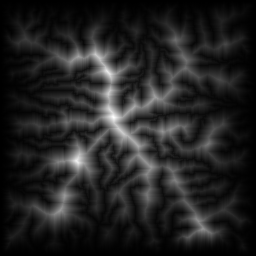
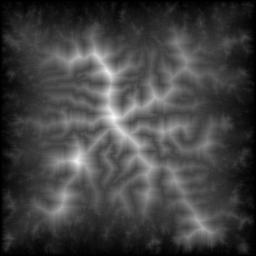
feat!: height_threshold parameter on with_valleys

diff --git a/terrain_gen/src/with_valleys.rs b/terrain_gen/src/with_valleys.rs
@@ -1,8 +1,11 @@
 use std::borrow::Borrow;
 
+use commons::scale::Scale;
+
 use crate::{AsHeightmap, AsRises, Heightmap, Rain};
 
 pub struct ValleyParameters {
+    height_threshold: f32,
     rain_threshold: usize,
     rise: f32,
 }
@@ -30,7 +33,18 @@ impl WithValleys for Heightmap {
             }
         });
 
-        noise.as_rises().as_heightmap(|xy| noise.is_border(xy))
+        let valleys = noise
+            .as_rises()
+            .as_heightmap(|xy| self[xy] <= parameters.height_threshold);
+
+        let valleys_scale = Scale::new((0.0, 1.0), (parameters.height_threshold, 1.0));
+        self.map(|xy, z| {
+            if *z > parameters.height_threshold {
+                valleys_scale.scale(valleys[xy])
+            } else {
+                self[xy]
+            }
+        })
     }
 }
 
@@ -57,6 +71,7 @@ mod tests {
 
         // when
         let with_valleys = heightmap.with_valleys(ValleyParameters {
+            height_threshold: 0.25,
             rain_threshold: 128,
             rise: 0.01,
         });
